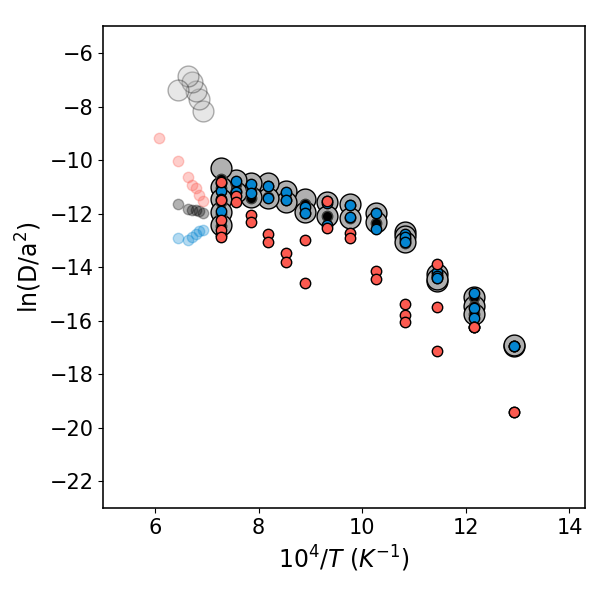
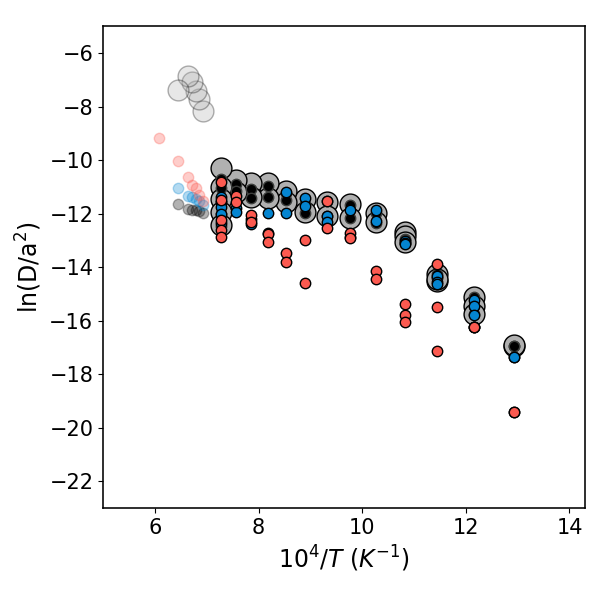
tests

diff --git a/make_schematic_fig.py b/make_schematic_fig.py
@@ -54,7 +54,7 @@ objective = DiffusionObjective(
 params1 = [335.567569632889	,39.146708523014,	30.172067488491	,29.664945364352	,21.426549193225	,17.402606427365	,15.964857224130,	6.284379579256,	-1.294279037535	,0.040535788100,	0.090277919616,	0.039701739596,	0.130310332905	,0.315146514821	,0.119667233118	,0.064814470901]
 
 #This is intermed fit, I think.
-params10_iters = [230.29062270957700,	26.32738565111700,	21.01574544927630,	18.67933154744840,	15.06584155918690	,13.01063165853310,	10.21103524972350	,2.48250506541692,	2.08754725778547,	0.01466558806171,	0.09944617583433,	0.09633836659125,	0.08881280810348,	0.10831924375069,	0.25398035235847,	0.15386570956638]	
+params10_iters = [225.16864692316400,	24.79891671422700,	19.58911301248650,	15.58804015758000	,15.09324417181600,	8.90777381122001,	3.84680115249297	,3.37066075479944	,-4.03175133153348	,0.01598257617348	,0.15121921662728,	0.04538308049088,	0.09926703849279,	0.32035260381400	,0.06191494098736,	0.28987619398019]	
 
 
 #This is the best fit

diff --git a/utils/plot_results_schematic.py b/utils/plot_results_schematic.py
@@ -462,8 +462,8 @@ def plot_results_schematic(
     # Label axes
     plt.xlabel("Step Number",fontsize = label_size)
     plt.ylabel("Fractional Release (%)", fontsize = label_size)
-    plt.xlim(0,33)
-    plt.ylim(-.003,0.06)
+    plt.xlim(0,34)
+    plt.ylim(-.003,0.063)
     plt.xticks(fontsize = tick_text_size)
     plt.yticks(fontsize = tick_text_size)
 
